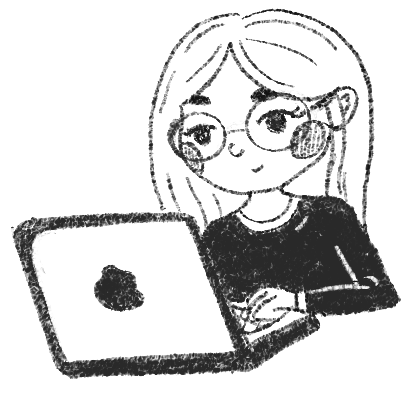
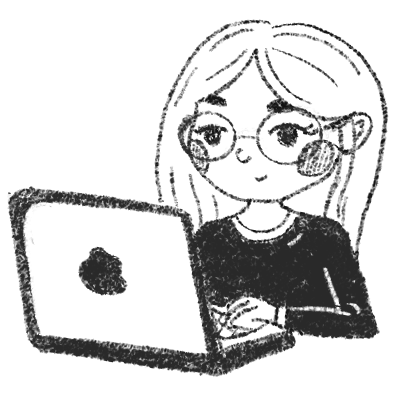
style: add flexbox to hero section

Changed region(s): [[0.0, 0.0, 0.9927, 0.9648], [0.1752, 0.603, 0.3504, 0.7839]]

diff --git a/portfolio/src/components/sections/Hero.tsx b/portfolio/src/components/sections/Hero.tsx
@@ -1,12 +1,21 @@
+import HeroImg from "../../assets/images/hero-img.png";
+
 const Hero = () => {
   return (
     <section>
-      <h1 className="text-hero w-full max-w-3xl">
-        <span className="block text-dark text-2xl">
-          <span className="font-bold">Hej, </span>Lina heter jag!
-        </span>
-        En multitasker som älskar design, webb och tillgänglighet.
-      </h1>
+        <div className="flex flex-col-reverse md:flex-row gap-md items-center justify-between">
+            <div> 
+                <h1 className="text-hero w-full max-w-3xl leading-tight">
+                    <span className="block text-dark text-2xl">
+                    <span className="font-bold">Hej, </span>Lina heter jag!
+                    </span>
+                    En multitasker som älskar design, webb och tillgänglighet.
+                </h1>
+            </div>
+            <div className="flex justify-center md:justify-center w-full max-w-3xl">
+                <img src={HeroImg} alt="Illustration av kvinna som sitter framför en dator" />
+            </div>
+        </div>       
     </section>
   );
 };
